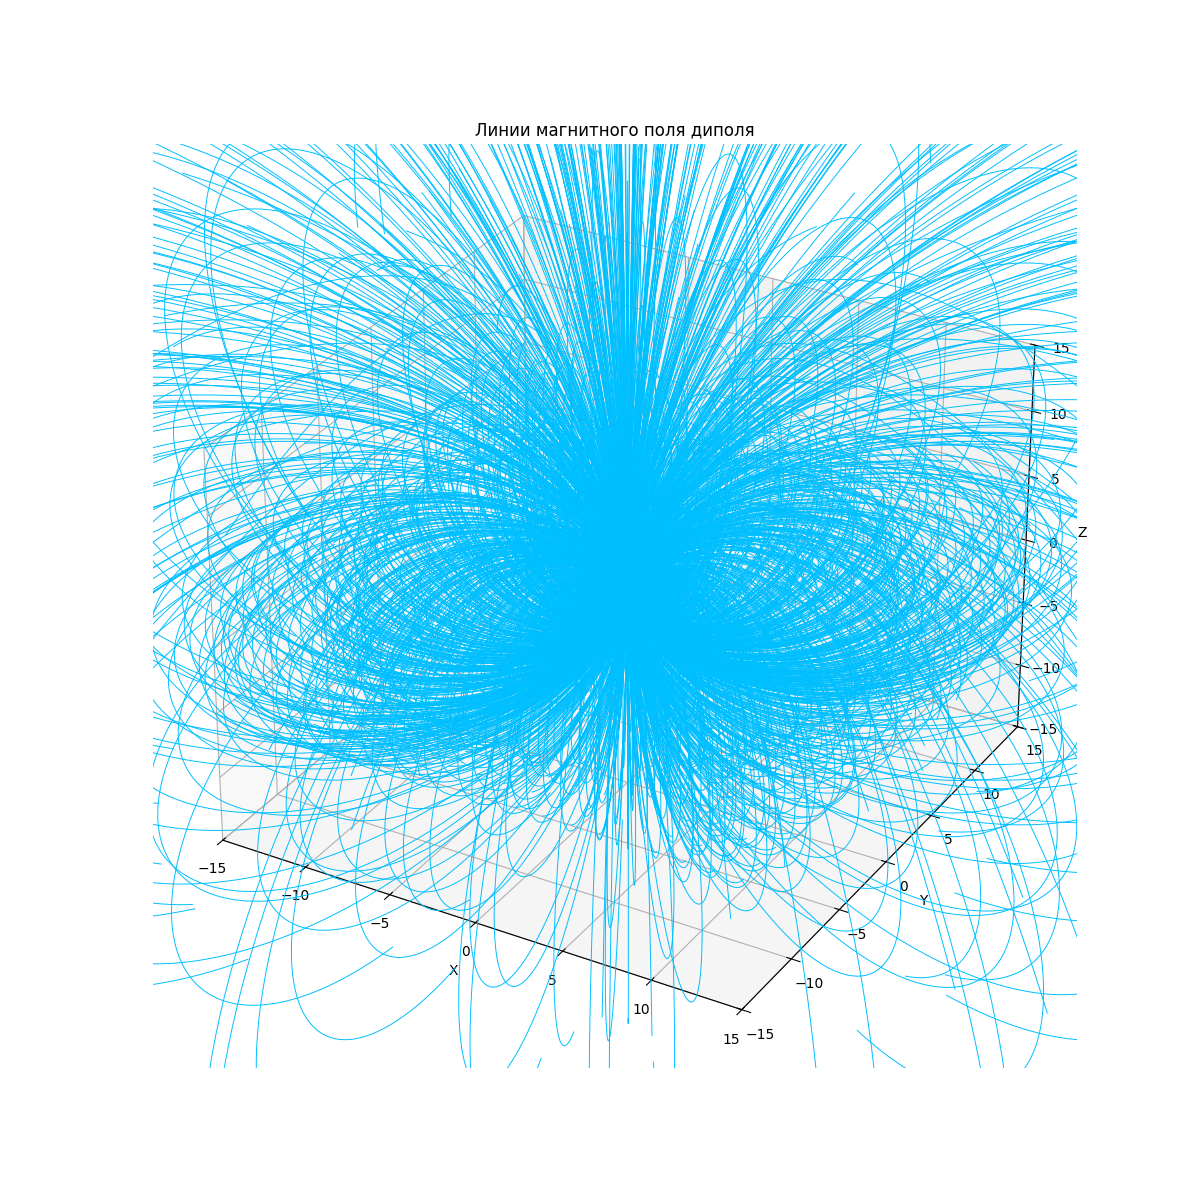
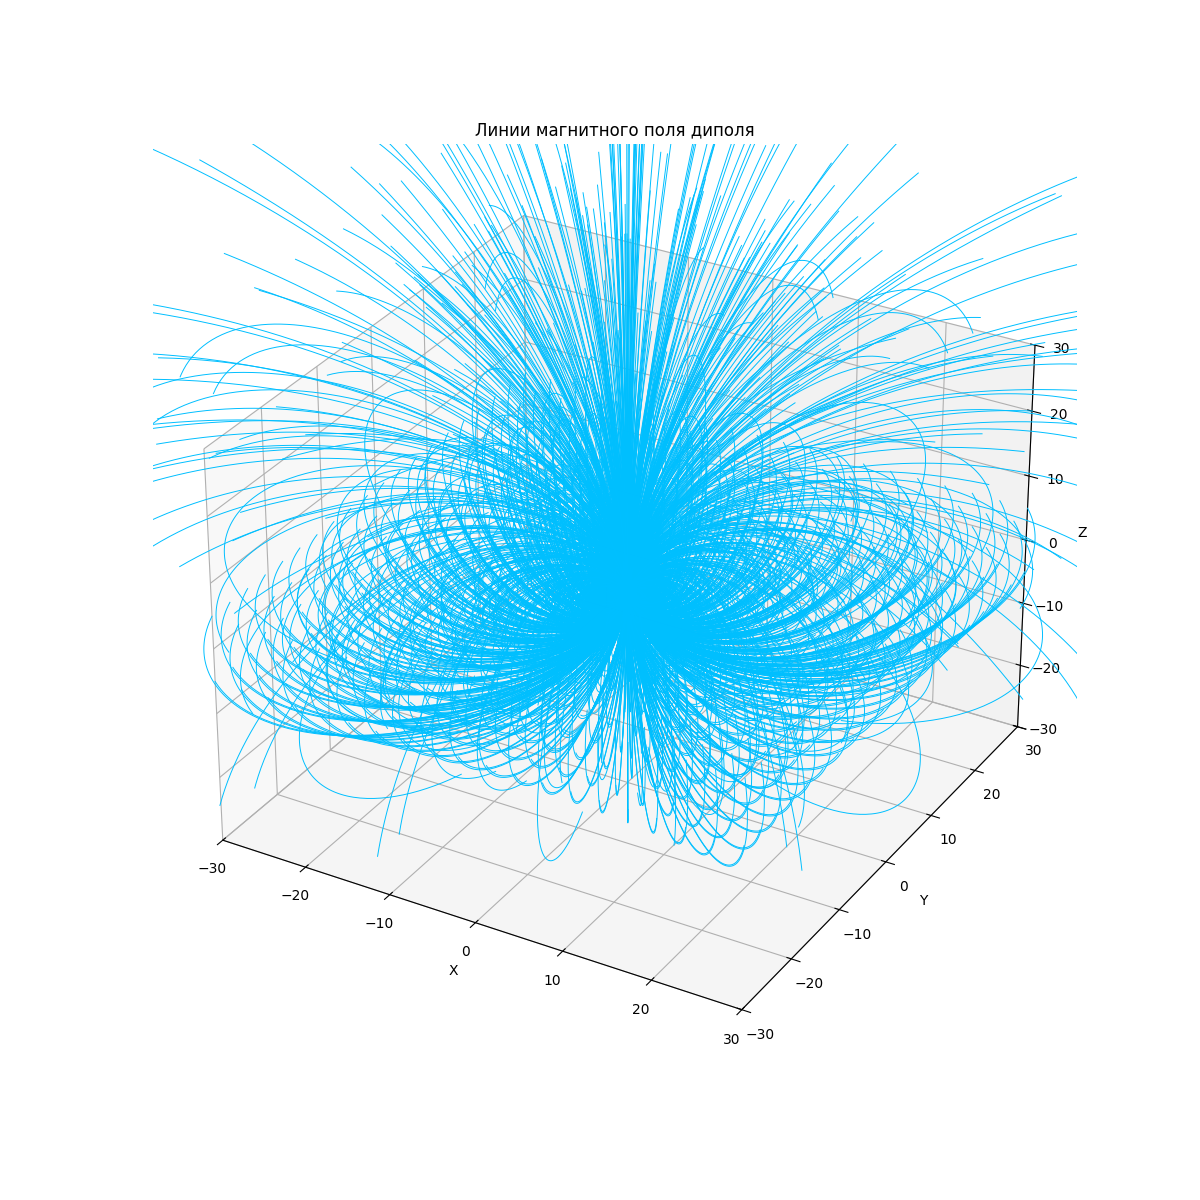
GHJTRN

Changed region(s): [[0.1233, 0.1233, 0.8942, 0.8633], [0.1233, 0.6783, 0.185, 0.7708]]

diff --git a/EARTH.py b/EARTH.py
@@ -1,0 +1,132 @@
+import numpy as np
+from scipy.integrate import odeint
+import matplotlib.pyplot as plt
+import mpl_toolkits.mplot3d.axes3d as p3
+from matplotlib.animation import FuncAnimation
+
+# Константы
+t = np.linspace(0, 5, 5000)
+q = -1.6 * 10 ** -19  # заряд электрона (отрицательный)
+m = 9.1 * 10 ** -31  # масса электрона
+mu = 1.26 * 10 ** -6  # магнитная постоянная (можно не использовать явно)
+mu_d = 7.94 * 10 ** 22  # Магнитный момент диполя Земли (А*м^2) - подберите значение!
+R_earth = 6.371 * 10 ** 6  # Радиус Земли (м) - можно использовать для масштабирования
+
+edge = 20 * 10 ** 6 # Увеличьте масштаб для отображения
+x_edge = 15 * 10 ** 6 # Увеличьте масштаб для отображения
+
+def magnetic_field(x, y, z):
+
+    r = np.sqrt(x**2 + y**2 + z**2)
+
+    if r < 1e3:  # Избегаем деления на ноль вблизи диполя
+        return np.array([0, 0, 0])
+
+    Bx = 3 * mu * mu_d * x * z / (4 * np.pi * r**5)
+    By = 3 * mu * mu_d * y * z / (4 * np.pi * r**5)
+    Bz = mu * mu_d * (2 * z**2 - x**2 - y**2) / (4 * np.pi * r**5)
+
+    return np.array([Bx, By, Bz])
+
+
+def move_func(s, t):
+
+    x, v_x, y, v_y, z, v_z = s
+
+    B = magnetic_field(x, y, z)
+    Bx, By, Bz = B
+
+    dxdt = v_x
+    dv_xdt = q / m * (v_y * Bz - v_z * By)
+
+    dydt = v_y
+    dv_ydt = q / m * (v_z * Bx - v_x * Bz)
+
+    dzdt = v_z
+    dv_zdt = q / m * (v_x * By - v_y * Bx)
+
+    return dxdt, dv_xdt, dydt, dv_ydt, dzdt, dv_zdt
+
+
+wave_width = 1 * 10 ** 6  # Ширина начального пучка
+wave_height = 1 * 10 ** 6 # Высота начального пучка
+wave_depth = 5 * 10 ** 6
+num_points_z = 10
+num_points_x = 10  # Количество точек по x
+num_points_y = 5 # Количество точек по y
+x_start = 15 * 10 ** 6  # Начальное положение по x (далеко от Земли)
+y_offset = 0  # Смещение по оси y вправо
+v_x = 0.1  # Скорость "налета" по x
+
+
+# Генерация начальных положений
+initial_positions = []
+for x in np.linspace(-wave_height / 2, wave_height / 2, num_points_x):
+    for z in np.linspace(-wave_width / 2, wave_width / 2, num_points_z):
+        for y in np.linspace(-wave_depth / 2, wave_depth / 2, num_points_y):  # Добавили цикл по y
+
+                initial_positions.append((x_start, v_x, y, 0, z, 0))
+
+solutions = []
+for s0 in initial_positions:
+    sol = odeint(move_func, s0, t)
+    solutions.append(sol)
+
+x_data = [sol[:, 0] for sol in solutions]
+y_data = [sol[:, 2] for sol in solutions]
+z_data = [sol[:, 4] for sol in solutions]
+
+fig = plt.figure()
+ax = fig.add_subplot(111, projection='3d')
+
+ax.set_xlim([-x_edge, x_edge])
+ax.set_ylim([-edge, edge])
+ax.set_zlim([-edge, edge])
+ax.set_xlabel("X")
+ax.set_ylabel("Y")
+ax.set_zlabel("Z")
+
+
+u = np.linspace(0, 2 * np.pi, 100)
+v = np.linspace(0, np.pi, 100)
+earth_x = R_earth * np.outer(np.cos(u), np.sin(v))
+earth_y = R_earth * np.outer(np.sin(u), np.sin(v))
+earth_z = R_earth * np.outer(np.ones(np.size(u)), np.cos(v))
+ax.plot_surface(earth_x, earth_y, earth_z, color="blue", alpha=0.5)
+
+
+balls = []
+lines = []
+for _ in range(len(solutions)):
+    ball, = ax.plot([], [], [], 'o', color='r', markersize=2)
+    line, = ax.plot([], [], [], lw=1, alpha=0.5)  # Уменьшим толщину линий
+    balls.append(ball)
+    lines.append(line)
+
+
+def init():
+    for ball, line in zip(balls, lines):
+        ball.set_data([], [])
+        ball.set_3d_properties([])
+        line.set_data([], [])
+        line.set_3d_properties([])
+    return tuple(balls + lines)
+
+
+def update(frame):
+    for i in range(len(solutions)):
+        balls[i].set_data([x_data[i][frame]], [y_data[i][frame]])
+        balls[i].set_3d_properties(z_data[i][frame])
+
+        lines[i].set_data(x_data[i][:frame + 1], y_data[i][:frame + 1])
+        lines[i].set_3d_properties(z_data[i][:frame + 1])
+
+    return tuple(balls + lines)
+
+
+for sol in solutions:
+    ax.plot(sol[:, 0], sol[:, 2], sol[:, 4], alpha=0.3)  # Закомментировано
+
+ani = FuncAnimation(fig, update, frames=len(t), interval=1, init_func=init)
+#ani.save('earth_electrons.gif', writer='imagemagick')
+plt.show()

diff --git a/MAIN_WAVE.PY b/MAIN_WAVE.PY
@@ -1,0 +1,114 @@
+import numpy as np
+from scipy.integrate import odeint
+import matplotlib.pyplot as plt
+import mpl_toolkits.mplot3d.axes3d as p3
+from matplotlib.animation import FuncAnimation
+
+# Константы
+t = np.linspace(0, 5, 5000)
+q = -1.6 * 10 ** -19  # заряд
+m = 9.1 * 10 ** -31  # масса электрона
+mu = 1.26 * 10 ** -6  # магнитная постоянная
+mu_d = 2 * 10 ** 2  # магнитный момент диполя
+edge = 300
+x_edge = 300
+
+
+def move_func(s, t):
+    x, v_x, y, v_y, z, v_z = s
+
+    r = (x**2 + y**2 + z**2)**(0.5)
+
+    if r < 1 * 10 ** -6:
+        Bx = 0
+        By = 0
+        Bz = 0
+    else:
+        Bx = 3 * x * z * mu_d * mu / (x**2 + y**2 + z**2)**(5 / 2)
+        By = 3 * y * z * mu_d * mu / (x**2 + y**2 + z**2)**(5 / 2)
+        Bz = (2 * z**2 - x**2 - y**2) * mu_d * mu / (x**2 + y**2 + z**2)**(5 / 2)
+
+    dxdt = v_x
+    dv_xdt = q / m * (v_y * Bz - By * v_z)
+
+    dydt = v_y
+    dv_ydt = q / m * (v_z * Bx - Bz * v_x)
+
+    dzdt = v_z
+    dv_zdt = q / m * (v_x * By - Bx * v_y)
+
+    return dxdt, dv_xdt, dydt, dv_ydt, dzdt, dv_zdt
+
+
+wave_width = 100  # Ширина
+wave_height = 100  # Высота
+wave_depth = 50 # Глубина (ширина в координате Y)
+num_points_x = 10  # Количество точек по x (высоте)
+num_points_z = 10 # Количество точек по z (ширине)
+num_points_y = 10  # Количество точек по y (глубине)
+
+x_start = -200  # Начальное положение по x
+y_offset = 0  # Смещение по оси y вправо
+v_x = 300# Скорость "налета" по x
+exclusion_radius = 2  # Радиус исключения вокруг (0, 0, 0)
+
+# Генерация начальных положений
+initial_positions = []
+for x in np.linspace(-wave_height / 2, wave_height / 2, num_points_x):
+    for z in np.linspace(-wave_width / 2, wave_width / 2, num_points_z):
+        for y in np.linspace(-wave_depth / 2, wave_depth / 2, num_points_y):  # Добавили цикл по y
+
+                initial_positions.append((x_start, v_x, y, 0, z, 0))
+
+solutions = []
+for s0 in initial_positions:
+    sol = odeint(move_func, s0, t)
+    solutions.append(sol)
+
+x_data = [sol[:, 0] for sol in solutions]
+y_data = [sol[:, 2] for sol in solutions]
+z_data = [sol[:, 4] for sol in solutions]
+
+fig = plt.figure()
+ax = fig.add_subplot(111, projection='3d')
+
+ax.set_xlim([-x_edge, x_edge])
+ax.set_ylim([-edge, edge])
+ax.set_zlim([-edge, edge])
+ax.set_xlabel("X")
+ax.set_ylabel("Y")
+ax.set_zlabel("Z")
+
+balls = []
+lines = []
+for _ in range(len(solutions)):
+    ball, = ax.plot([], [], [], 'o', color='r', markersize=2)
+    line, = ax.plot([], [], [], lw=2)
+    balls.append(ball)
+    lines.append(line)
+
+
+def init():
+    for ball, line in zip(balls, lines):
+        ball.set_data([], [])
+        ball.set_3d_properties([])
+        line.set_data([], [])
+        line.set_3d_properties([])
+    return tuple(balls + lines)
+
+
+def update(frame):
+    for i in range(len(solutions)):
+        balls[i].set_data([x_data[i][frame]], [y_data[i][frame]])
+        balls[i].set_3d_properties(z_data[i][frame])
+
+        lines[i].set_data(x_data[i][:frame + 1], y_data[i][:frame + 1])
+        lines[i].set_3d_properties(z_data[i][:frame + 1])
+
+    return tuple(balls + lines)
+
+ani = FuncAnimation(fig, update, frames=len(t), interval=1, init_func=init)
+for sol in solutions:
+    ax.plot(sol[:, 0], sol[:, 2], sol[:, 4], alpha=0.3)
+#ani.save('mnogo2.gif', writer='imagemagick')
+plt.show()

diff --git a/lec_code.py b/lec_code.py
@@ -22,7 +22,7 @@ q = 1.6 * 10 ** (-19) #заряд
 m = 9.1 * 10 ** (-31) #масса электрона
 mu = 1.26 * 10 ** (-6) #магнитная постоянная
 mu_d = 2 * 10 ** 2 #магнитный момент диополя
-edge = 15
+edge = 30
 
 def move_func (s, t):
     x, v_x, y, v_y, z, v_z = s

diff --git a/MAIN_ONE.py b/MAIN_ONE.py
@@ -8,10 +8,10 @@ from matplotlib.animation import FuncAnimation
 t = np.linspace (0, 4, 4000)
 
 #начальные значения
-x0 = 10
+x0 = -10
 v_x0 = 0
  
-y0 = 20
+y0 = -20
 v_y0 = -10
 
 z0 = 0

diff --git a/MAIN_STATIC.py b/MAIN_STATIC.py
@@ -5,7 +5,7 @@ import mpl_toolkits.mplot3d.axes3d as p3
 # Константы
 mu_0 = 1.26 * 10 ** (-6)  
 mu_d = 200 
-edge = 15 
+edge = 30
 
 def move_func (x, y, z, mu=mu_d, mu_00=mu_0):
 
